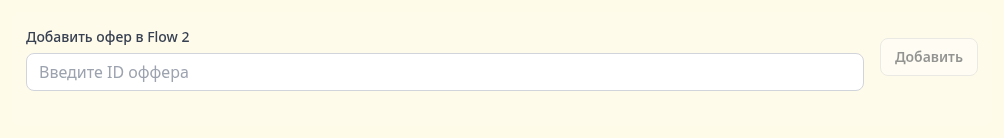
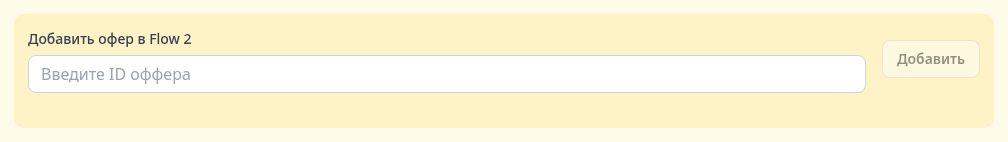
draft: форма добавления офера --warn-row (#fef3c7), читается на подложке #fffbe9

diff --git a/frontend/src/features/streams/StreamCard.module.css b/frontend/src/features/streams/StreamCard.module.css
@@ -50,8 +50,10 @@ section.hasDraft {
   background: var(--draft-surface);
 }
 
+/* Форма чуть темнее подложки (--warn-row #fef3c7), иначе на #fffbe9
+   блок формы не читается (разница с --warn-bg была 2 единицы). */
 .hasDraft .offerForm {
-  background: var(--warn-bg);
+  background: var(--warn-row);
 }
 
 .hasDraft .offerForm input {
